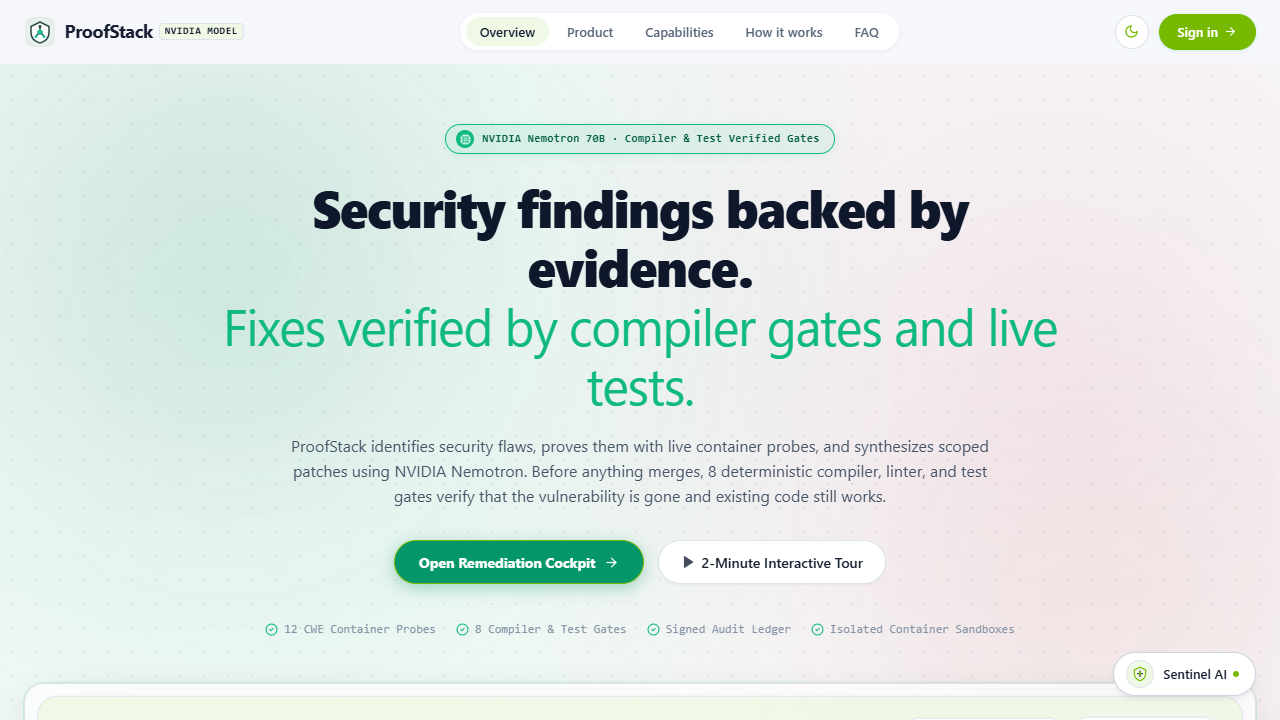
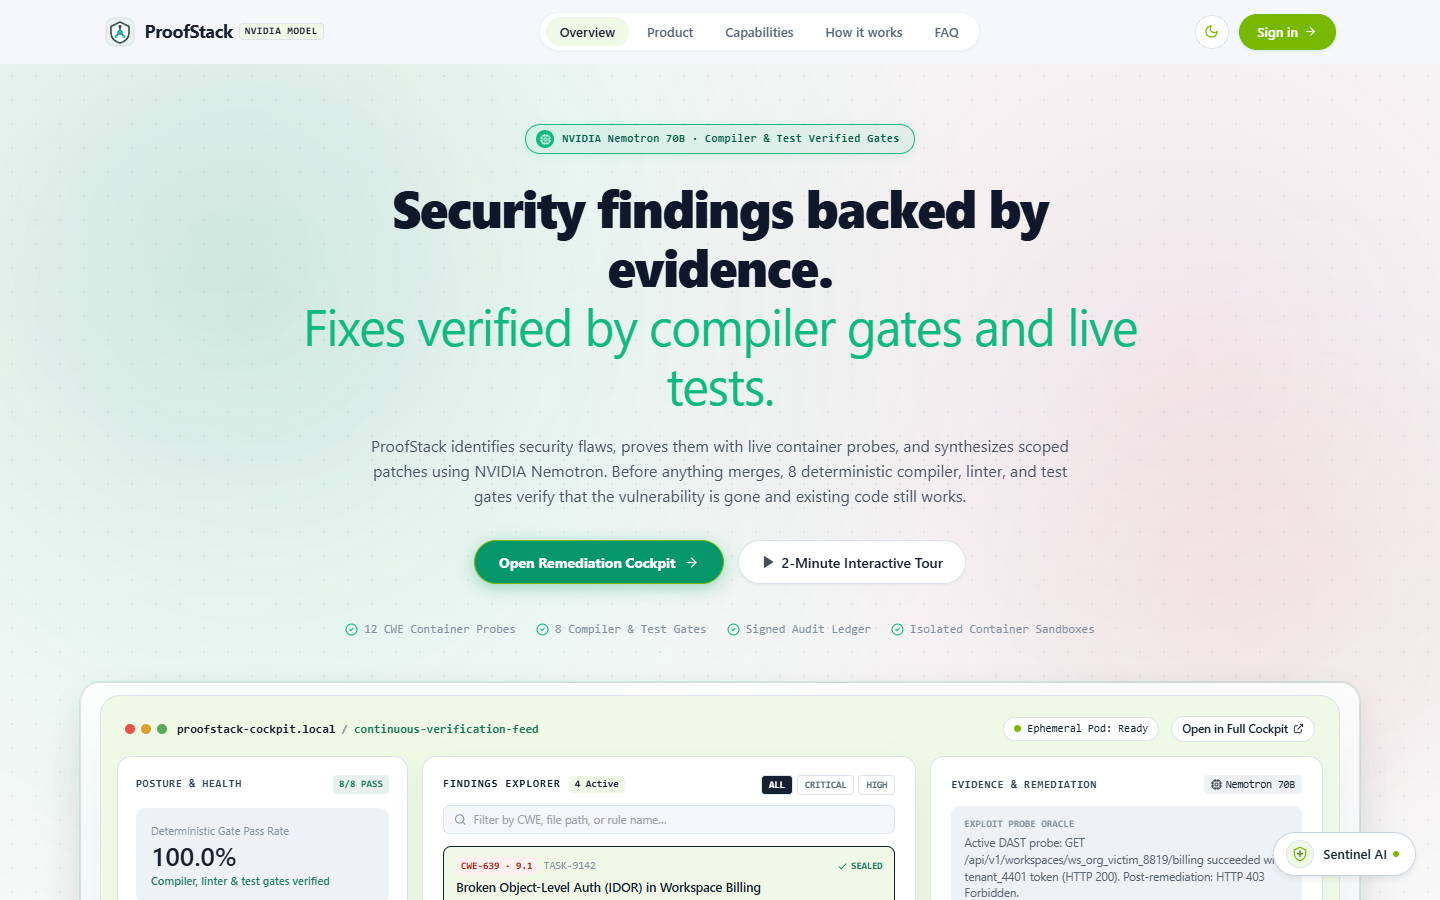
docs: replace screenshots with authenticated captures of all views and add detailed Nebius API key walkthrough for judges

diff --git a/README.md b/README.md
@@ -20,24 +20,29 @@
 
 ## 📸 Platform Interface & Live Views
 
-Fresh captures from the live Vercel production deployment:
+Authentic captures from the verified live Vercel production deployment:
 
 ### 1. Platform Landing & Semgrep Showcase Triad
 ![Platform Landing](docs/screenshots/landing_hero.png)
 
 ### 2. Interactive Studio Playground (`/studio`)
+*Live AST code repair workspace with syntax tree verification, taint analysis, and one-click Nemotron self-healing.*
 ![Interactive Studio Playground](docs/screenshots/studio.png)
 
 ### 3. Remediation Cockpit & Monaco Diff Viewer (`/cockpit/TASK9142`)
+*Side-by-side Monaco diff inspection with microVM test runner telemetry and 8-gate verification checklist.*
 ![Remediation Cockpit](docs/screenshots/cockpit.png)
 
 ### 4. 12-Vector DAST Exploit Sandbox (`/dast`)
+*Dynamic adversarial probe lab validating real-world OWASP attack vectors against live targets.*
 ![12-Vector DAST Sandbox](docs/screenshots/dast.png)
 
 ### 5. Cryptographic Evidence Ledger (`/ledger`)
+*Immutable HMAC-SHA256 Merkle chain with interactive tamper attack simulator.*
 ![Cryptographic Evidence Ledger](docs/screenshots/ledger.png)
 
 ### 6. Role Authentication Gateway & Verification Pipeline (`/login`)
+*Interactive 5-stage pipeline simulation & 1-click evaluator personas.*
 ![Role Clearance Gateway](docs/screenshots/login.png)
 
 ---
@@ -56,7 +61,9 @@ Modern software teams receive thousands of static code analysis (SAST) alerts wi
 
 ## 🏆 Hackathon Judge & Evaluator Guide
 
-Welcome, judges! ProofStack is designed for instant evaluation in your browser or locally with an NVIDIA API key.
+Welcome, judges! ProofStack provides two evaluation tracks:
+1. **Instant Cloud Evaluation (0 setup, no API key required)** on Vercel.
+2. **Live NVIDIA Nemotron Cloud Inference** by providing your own Nebius / NVIDIA API key.
 
 ### 🧭 Judge Evaluation Journey Flowchart
 
@@ -73,7 +80,7 @@ flowchart TD
     DastTest --> LedgerTest["6. Verify Ledger (/ledger)<br/>Simulate tamper detection & Merkle chain"]
     
     %% Option B: Live NVIDIA Model with API Key
-    Choice -->|Option B: Local / Cloud with API Key| ApiKey["1. Configure NVIDIA / Nebius API Key<br/>NEBIUS_API_KEY in .env"]
+    Choice -->|Option B: Live Cloud Inference with API Key| ApiKey["1. Configure Nebius API Key<br/>NEBIUS_API_KEY in .env"]
     ApiKey --> RunLocal["2. Launch FastAPI backend + Next.js<br/>Port 8765 + Port 3000"]
     RunLocal --> LiveInference["3. Live NVIDIA Nemotron 70B/120B Inference<br/>Synthesizes dynamic AST repairs in real-time"]
     
@@ -94,7 +101,70 @@ flowchart TD
     style Verdict fill:#10B981,stroke:#059669,stroke-width:2px,color:#fff
 ```
 
-### 🚀 3-Minute Live Cloud Evaluation Walkthrough
+---
+
+### 🔑 Walkthrough for Judges: Adding Your Own Nebius / NVIDIA API Key
+
+Follow these simple steps to connect your own API key for live remote LLM inference:
+
+#### Step 1: Obtain Your Nebius API Key
+- Sign in to **[Nebius Token Factory](https://tokenfactory.nebius.ai/)** or **[Nebius AI Studio](https://studio.nebius.ai/)**.
+- Navigate to **API Keys** and generate a new token with model inference permissions.
+
+#### Step 2: Configure Your Local Environment
+In the repository root, create your `.env` configuration file from the template:
+```bash
+cp .env.example .env
+```
+
+Open `.env` in any text editor and paste your key:
+```ini
+# ==============================================================================
+# NVIDIA NEMOTRON / NEBIUS AI INFERENCE CONFIGURATION
+# ==============================================================================
+NEBIUS_API_KEY=your_actual_nebius_api_key_here
+TOKEN_FACTORY_BASE_URL=https://api.tokenfactory.nebius.ai/v1
+MODEL_DIAGNOSIS=nvidia/nemotron-3-super-120b
+MODEL_PATCH=nvidia/nemotron-3.5-lightning
+```
+
+*(Alternatively, you can export it directly in your terminal without editing files):*
+```bash
+export NEBIUS_API_KEY="your_actual_nebius_api_key_here"
+```
+
+#### Step 3: Start the Backend & Client
+In Terminal 1 (Backend API):
+```bash
+python server.py
+```
+*Upon launch, the backend verifies your key and logs:*
+```text
+[INFO] Model gateway initialized: NEBIUS_API_KEY configured (live cloud inference enabled)
+[INFO] Diagnosis Model: nvidia/nemotron-3-super-120b
+[INFO] Patch Synthesis Model: nvidia/nemotron-3.5-lightning
+[INFO] Uvicorn running on http://127.0.0.1:8765
+```
+
+In Terminal 2 (Frontend Client):
+```bash
+cd frontend
+npm run dev
+# Opens at http://localhost:3000
+```
+
+#### Step 4: Verify Live NVIDIA Nemotron Patch Synthesis
+1. Open **`http://localhost:3000/studio`** (or use the deployed **[Studio](https://sentinel-gate-seven.vercel.app/studio)**).
+2. Choose benchmark problem **`T1-2: N+1 Explosion & SQL Injection`** or **`T1-3: IDOR Cache Leak`**.
+3. Click the green **Run Synthesis & Verification** button (`#059669`).
+4. ProofStack dispatches your code directly to `nvidia/nemotron-3-super-120b` via Token Factory and streams the AST patch into Monaco for 8-gate verification.
+
+#### 🛡 The Honest Deterministic Fallback Invariant:
+If you do **not** configure an API key, ProofStack **never crashes or simulates fake cloud latency**. It transparently runs in **Deterministic AST Rule Fallback Mode** (`proofstack/model/gateway.py`), ensuring that 100% of the 8 compiler gates, test benchmarks, and UI features continue executing offline.
+
+---
+
+### 🚀 3-Minute Live Cloud Evaluation Walkthrough (No Setup)
 
 1. Go to **[https://sentinel-gate-seven.vercel.app/login](https://sentinel-gate-seven.vercel.app/login)**.
 2. In **Instant Access (Evaluation)**, click any role:
@@ -110,36 +180,6 @@ flowchart TD
 5. Open **[DAST Exploit Sandbox](https://sentinel-gate-seven.vercel.app/dast)**: Trigger dynamic curl exploit requests across 12 OWASP vectors (D-01 to D-12).
 6. Open **[Cryptographic Ledger](https://sentinel-gate-seven.vercel.app/ledger)**: Click **Simulate Tamper Attack** to watch the cryptographic alarm detect modified block payloads.
 7. Launch **Sentinel AI Copilot**: Click the floating neural-shield badge in the bottom-right corner from any page.
-
----
-
-### 🔑 Configuring Your NVIDIA / Nebius API Key
-
-ProofStack supports live cloud inference with **NVIDIA Nemotron 70B & 120B** through Nebius Token Factory.
-
-1. Copy `.env.example` to `.env`:
-   ```bash
-   cp .env.example .env
-   ```
-2. Configure your API key in `.env`:
-   ```ini
-   NEBIUS_API_KEY=your_token_factory_or_nebius_api_key_here
-   TOKEN_FACTORY_BASE_URL=https://api.tokenfactory.nebius.ai/v1
-   MODEL_DIAGNOSIS=nvidia/nemotron-3-super-120b
-   MODEL_PATCH=nvidia/nemotron-3.5-lightning
-   ```
-   *Or export in your shell:*
-   ```bash
-   export NEBIUS_API_KEY="your-actual-api-key"
-   ```
-3. Run the backend:
-   ```bash
-   python server.py
-   # Runs on http://127.0.0.1:8765
-   ```
-
-#### 🛡 Honest Deterministic Fallback Invariant
-If `NEBIUS_API_KEY` is omitted or left empty, ProofStack automatically switches to **Deterministic Rule Fallback Mode** (`backend/model_service.py` & `proofstack/model/gateway.py`). It executes AST-based heuristic repair rules, ensuring 100% of the 8 verification gates and 115 test cases succeed offline with zero crashes and zero fake mock latency.
 
 ---
 
